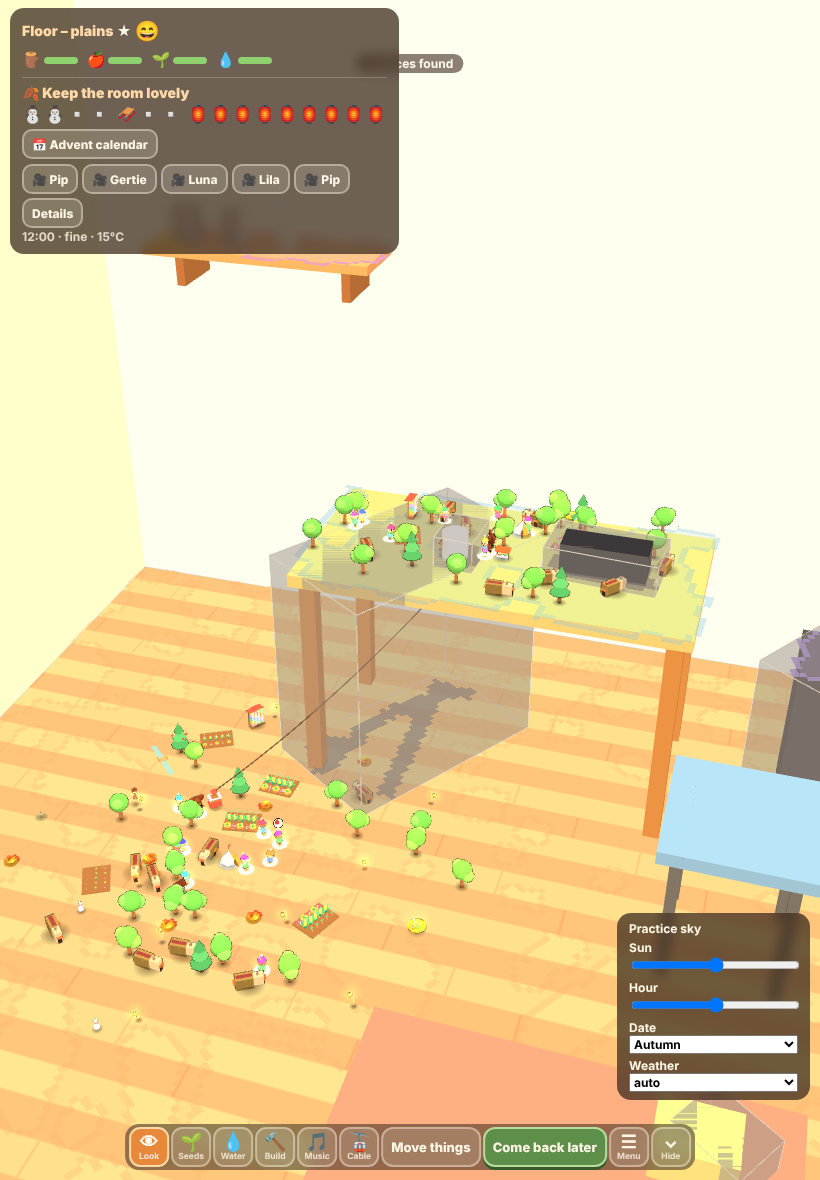
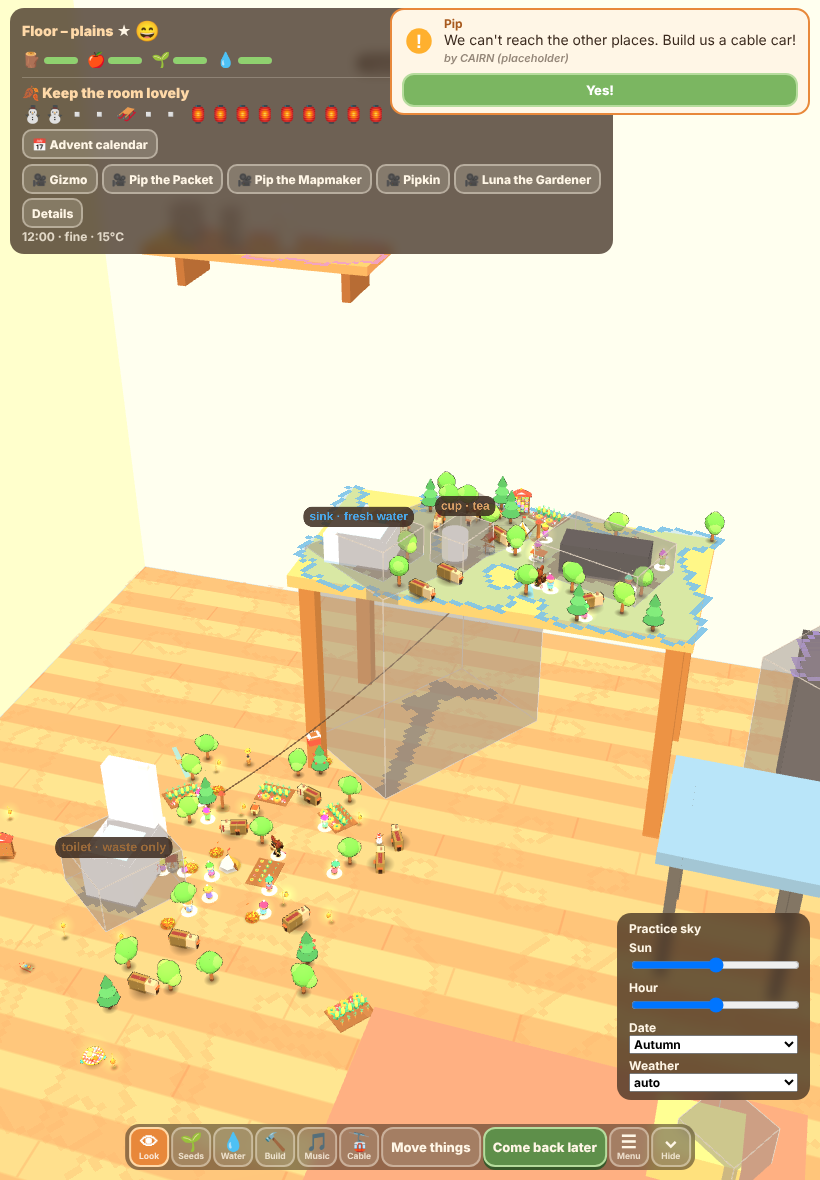
Fix duplicate names for real: unique by name ignoring credits, chips show the full name when the first word is shared; test added
Claude-Session: https://claude.ai/code/session_0171oc5wTsPoimaja7RRfUcs

diff --git a/games/base-camp/index.html b/games/base-camp/index.html
@@ -1461,11 +1461,13 @@ function newSettlement(zone, o) {
 }
 const newStats = () => ({ tin: 0, food: 0, concert: 0, trade: 0, recycled: 0, squashed: 0, tinAcc: 0, foodAcc: 0, tradeAcc: 0, roofs: 0 });
 function applyTf(S) { S.group.position.set(S.tf.x, S.tf.y, S.tf.z); S.group.rotation.set(S.tf.flip ? Math.PI : 0, S.tf.yaw, 0); S.group.updateMatrixWorld(true); } /* Euler XYZ = Rx * Ry: the yaw is applied first, then the half turn about X hangs the camp from its surface */
-function uniqName(nm) { /* build 19: no two creatures in one room share a name (the almanac and the creature list both have a Pip, a Luna, a Zap) */ const taken = (q) => G.settlements.some((T) => T.cols.some((c) => c.name === q)); let q = nm, n = 1; const base = nm.replace(/ \d+$/, ''); while (taken(q) && n < 99) { n++; q = base + ' ' + n; } return q; }
+const nameKey = (n) => String(n).replace(/\s*\([^)]*\)/g, '').trim().toLowerCase(); /* build 19: "Gloop (Dell Reasoner)" and "Gloop" are the same name */
+function uniqName(nm, self) { /* build 19: no two creatures in one room share a name, whatever the camp, the scout mouse included (the almanac and the creature list both have a Pip, a Luna, a Zap; the old check missed "Gloop (credit)" vs "Gloop") */ const taken = (q) => G.settlements.some((T) => T.cols.some((c) => c !== self && nameKey(c.name) === nameKey(q))); if (!taken(nm)) return nm; const base = nm.replace(/\s*\([^)]*\)/g, '').replace(/ \d+$/, '').trim(); let q = base, n = 1; while (taken(q) && n < 999) { n++; q = base + ' ' + n; } return q; }
+function chipName(c) { /* build 19: the chip shows the first word only when it is unique in the room, else the whole name ("Pip 2", "Pip the Packet"), so two chips never read the same */ const full = c.name.replace(/\s*\([^)]*\)/g, '').trim(), w = full.split(' ')[0]; return G.settlements.some((T) => T.cols.some((q) => q !== c && q.name.replace(/\s*\([^)]*\)/g, '').trim().split(' ')[0] === w)) ? full : w; }
 function addColonist(S, o) {
   o = o || {}; const A = COLONY_ALMANAC.colonists, pool = A.concat(CREATURES.map((c) => ({ name: c.name, personality: persFromText(c.name, c.made_of), likes: likesToKinds([c.gross_or_silly_habit, c.secretly_brilliant_at]), persona: c.made_of, creature: c, by: c.by }))), def = pool[G.nameIdx++ % pool.length], rep = Math.floor((G.nameIdx - 1) / pool.length);
   const temper = (o.temper !== undefined ? o.temper : def.creature) || CREATURES[Math.floor(hash01(def.name, 21) * CREATURES.length)] || null;
-  const c = { scout: o.scout !== undefined ? !!o.scout : !S.cols.some((q) => q.scout), id: o.id || ++G.uid, born: o.born === undefined ? 0 : 1, name: o.name || uniqName(def.name + (rep ? ' ' + (rep + 1) : '')), pers: o.pers || def.personality || { work: 1, social: 1, lazy: 1 }, likes: o.likes || def.likes || [], persona: o.persona || def.persona || '', dream: o.dream || def.dream || '', by: o.by || def.by || '', temper, hue: o.hue !== undefined ? o.hue : Math.random(), x: 0, z: 0, face: rnd(0, 6.28), needs: o.needs || { food: rnd(0.75, 1), water: rnd(0.75, 1), rest: rnd(0.8, 1), joy: rnd(0.65, 0.9) }, job: null, inside: false, spawn: o.spawn || 0, S, bub: null, bubName: '', anim: 0, moving: false, cool: 0 };
+  const c = { scout: o.scout !== undefined ? !!o.scout : !S.cols.some((q) => q.scout), id: o.id || ++G.uid, born: o.born === undefined ? 0 : 1, name: o.name ? uniqName(o.name) : uniqName(def.name + (rep ? ' ' + (rep + 1) : '')), pers: o.pers || def.personality || { work: 1, social: 1, lazy: 1 }, likes: o.likes || def.likes || [], persona: o.persona || def.persona || '', dream: o.dream || def.dream || '', by: o.by || def.by || '', temper, hue: o.hue !== undefined ? o.hue : Math.random(), x: 0, z: 0, face: rnd(0, 6.28), needs: o.needs || { food: rnd(0.75, 1), water: rnd(0.75, 1), rest: rnd(0.8, 1), joy: rnd(0.65, 0.9) }, job: null, inside: false, spawn: o.spawn || 0, S, bub: null, bubName: '', anim: 0, moving: false, cool: 0 };
   const a = rnd(0, 6.28), d = rnd(0.045, 0.08); c.x = o.x !== undefined ? o.x : Math.cos(a) * d; c.z = o.z !== undefined ? o.z : Math.sin(a) * d;
   c.mesh = mkColonist(c); c.mesh.position.set(c.x, 0, c.z); S.group.add(c.mesh);
   c.bub = new THREE.Sprite(new THREE.SpriteMaterial({ map: bubbleTex('bang'), transparent: true, depthTest: false })); c.bub.scale.set(0.02, 0.02, 1); c.bub.position.y = 0.05; c.bub.visible = false; c.bub.renderOrder = 20; c.mesh.add(c.bub);
@@ -3332,7 +3334,7 @@ function envLine(full) {
   const hh = Math.floor(ENV.hour), mm = Math.floor((ENV.hour % 1) * 60), sky = (ENV.night ? 'night' : ENV.rain ? 'rain' : ENV.hot ? 'hot' : ENV.cold ? 'cold' : ENV.windy ? 'windy' : ENV.dim ? 'dim' : 'fine') + ' · ' + Math.round(ENV.wx.temp) + '°C';
   return `<div style="opacity:.8;font-size:12px">${String(hh).padStart(2, '0')}:${String(mm).padStart(2, '0')} · ${sky}${full ? ' · sun ' + ENV.sun.toFixed(2) + ' · growth x' + ENV.grow.toFixed(2) : ''}</div>`;
 }
-function chipsHtml(S) { const cs = S.cols.filter((c) => !c.inside && c.spawn <= 0).slice(0, innerWidth < 500 ? 3 : 5); return cs.length ? '<div class="chips">' + cs.map((c) => `<button class="cbtn" data-cam="${c.id}" title="Watch ${esc(c.name)}">🎥 ${esc(/^\S+ \d+$/.test(c.name) ? c.name : c.name.split(' ')[0])}</button>`).join('') + '</div>' : ''; }
+function chipsHtml(S) { const cs = S.cols.filter((c) => !c.inside && c.spawn <= 0).slice(0, innerWidth < 500 ? 3 : 5); return cs.length ? '<div class="chips">' + cs.map((c) => `<button class="cbtn" data-cam="${c.id}" title="Watch ${esc(c.name)}">🎥 ${esc(chipName(c))}</button>`).join('') + '</div>' : ''; }
 
 /* ============ WATERWORKS (build 18): straws bring water home, buckets take the waste to the toilet, a mouse leads the way. The idea is Harry's. ============
    The network is built from the room map's own spots: a spot called sink / toilet / plant / vase / cup is a water source or a waste drop (waterKind). Nothing is stored apart from G.net:
@@ -6537,7 +6539,7 @@ addEventListener('visibilitychange', () => { if (document.hidden) persist(true);
 for (const n of ['addSpot', 'removeSpot', 'giveRequest', 'makeLink', 'applyChanges', 'answerGuess', 'libAdd', 'answerAsk', 'plantTree']) { const f0 = window[n]; if (typeof f0 === 'function') window[n] = function () { const r = f0.apply(this, arguments); if (G.auto) persistSoon(); return r; }; }
 // ============ test and debug hooks ============
 window.__g = {
-  SCOUT17, scout17Load, scout17Tick, DECOR_MK, decorMake, M, room, BCP, inked, bcMerge, mkColonist, mkTree, mkTent, mkRubble, mkPebble, mkShade, mkLantern, mkNook, mkStage, mkTreehouse, mkCrumb, mkStation, mkBalloon, bcProp, bcOK, bcRebuild, mkHut, mkWell, mkFarm, mkLookout, mkLandmark, world, barUi, recogStatus, ceilTick, ceilOK, addColonist, hookFor, hooksBuilt, addHook, addNest, ceilEvac, linkStep, linkEnds, hookPos, CEIL_THINGS, fxOf, autoExpand, liveReclass, reportCompact, SY, l2w, w2l, classify, clearArea, envUpdate, G, SCAN, ENV, AR, P, PROPS, PLACE, COLONY_ALMANAC, COUNCIL, ROOMS, CREATURES, TAGS, ROLES, KINDS, TIDY, DIARY, THREE, scene, renderer, camera,
+  chipsHtml, chipName, nameKey, uniqName, SCOUT17, scout17Load, scout17Tick, DECOR_MK, decorMake, M, room, BCP, inked, bcMerge, mkColonist, mkTree, mkTent, mkRubble, mkPebble, mkShade, mkLantern, mkNook, mkStage, mkTreehouse, mkCrumb, mkStation, mkBalloon, bcProp, bcOK, bcRebuild, mkHut, mkWell, mkFarm, mkLookout, mkLandmark, world, barUi, recogStatus, ceilTick, ceilOK, addColonist, hookFor, hooksBuilt, addHook, addNest, ceilEvac, linkStep, linkEnds, hookPos, CEIL_THINGS, fxOf, autoExpand, liveReclass, reportCompact, SY, l2w, w2l, classify, clearArea, envUpdate, G, SCAN, ENV, AR, P, PROPS, PLACE, COLONY_ALMANAC, COUNCIL, ROOMS, CREATURES, TAGS, ROLES, KINDS, TIDY, DIARY, THREE, scene, renderer, camera,
   simulate(sec, step) { /* with the device clock the simulated time also moves the sun, so a long run has days and nights (a fixed hourOverride stays fixed) */
     step = step || 0.5; const dev = ENV.hourOverride === null, h0 = ENV.hour; for (let t = 0; t < sec; t += step) { if (dev && t % 30 < step) { ENV.hourOverride = (h0 + t / 3600) % 24; envUpdate(); } simTick(step, false); }
     if (dev) { ENV.hourOverride = null; envUpdate(); } },

diff --git a/games/base-camp/tests/fixes19-test.js b/games/base-camp/tests/fixes19-test.js
@@ -12,7 +12,17 @@ const res = []; const ok = (n, c, x) => { res.push(!!c); console.log((c ? 'PASS 
   /* 4. unique names */
   await ev(() => __g.simulate(3 * 3600, 0.5));
   const nm = await ev(() => { const a = __g.G.settlements.flatMap((S) => S.cols.map((c) => c.name)); return { n: a.length, u: new Set(a).size }; });
-  ok('no two creatures share a name after 3 simulated hours', nm.n > 12 && nm.n === nm.u, JSON.stringify(nm));
+  ok('no two creatures share a name after 3 simulated hours (exact names)', nm.n > 12 && nm.n === nm.u, JSON.stringify(nm));
+  /* the duplicate-name bug that survived the first fix: the chips cut a name to its first word, so "Pip" and "Pip the Packet" were two "Pip" chips, and "Gloop (credit)" matched "Gloop". Check 4 h in every room, the card chips and the scout too. */
+  await ev(() => __g.simulate(3600, 0.5));
+  const nm2 = await ev(() => {
+    const all = []; for (const S of __g.G.settlements) for (const c of S.cols) all.push(c); const keys = all.map((c) => __g.nameKey(c.name)); const scouts = all.filter((c) => c.scout).map((c) => __g.nameKey(c.name));
+    const bad = []; for (const S of __g.G.settlements) { const t = new DOMParser().parseFromString(__g.chipsHtml(S), 'text/html'); const lab = [...t.querySelectorAll('.cbtn')].map((e) => e.textContent.replace('\u{1F3A5}', '').trim()); if (new Set(lab).size !== lab.length) bad.push(lab.join(',')); }
+    const labels = all.map((c) => __g.chipName(c)); return { n: all.length, uniqKeys: new Set(keys).size, scouts: scouts.length, scoutUniq: new Set(scouts).size, badCards: bad, uniqLabels: new Set(labels).size };
+  });
+  ok('4 simulated hours: every creature name (scout mice included, credits ignored) is unique in the room', nm2.n > 12 && nm2.uniqKeys === nm2.n && nm2.scouts >= 2 && nm2.scoutUniq === nm2.scouts, JSON.stringify(nm2));
+  ok('no card shows two identical chips, and every chip label is unique in the room', nm2.badCards.length === 0 && nm2.uniqLabels === nm2.n, JSON.stringify(nm2));
+  ok('a second Pip is "Pip 2", an old save with two Pips is made unique on load', await ev(() => { const S = __g.mainSettlement(); const a = __g.uniqName('Pip'), b = __g.uniqName('Gloop (Dell Reasoner)'); return /^Pip \d+$/.test(a) && (!S.cols.some((c) => __g.nameKey(c.name) === 'gloop') || /^Gloop \d+$/.test(b)); }));
   /* 2. one bubble at a time within a radius */
   const bub = await ev(() => {
     const S = __g.mainSettlement(), cs = S.cols.filter((c) => !c.inside).slice(0, 4); for (const T of __g.G.settlements) for (const q of T.cols) q.sayT = 0; __g.FUN.bubbles = 0;
